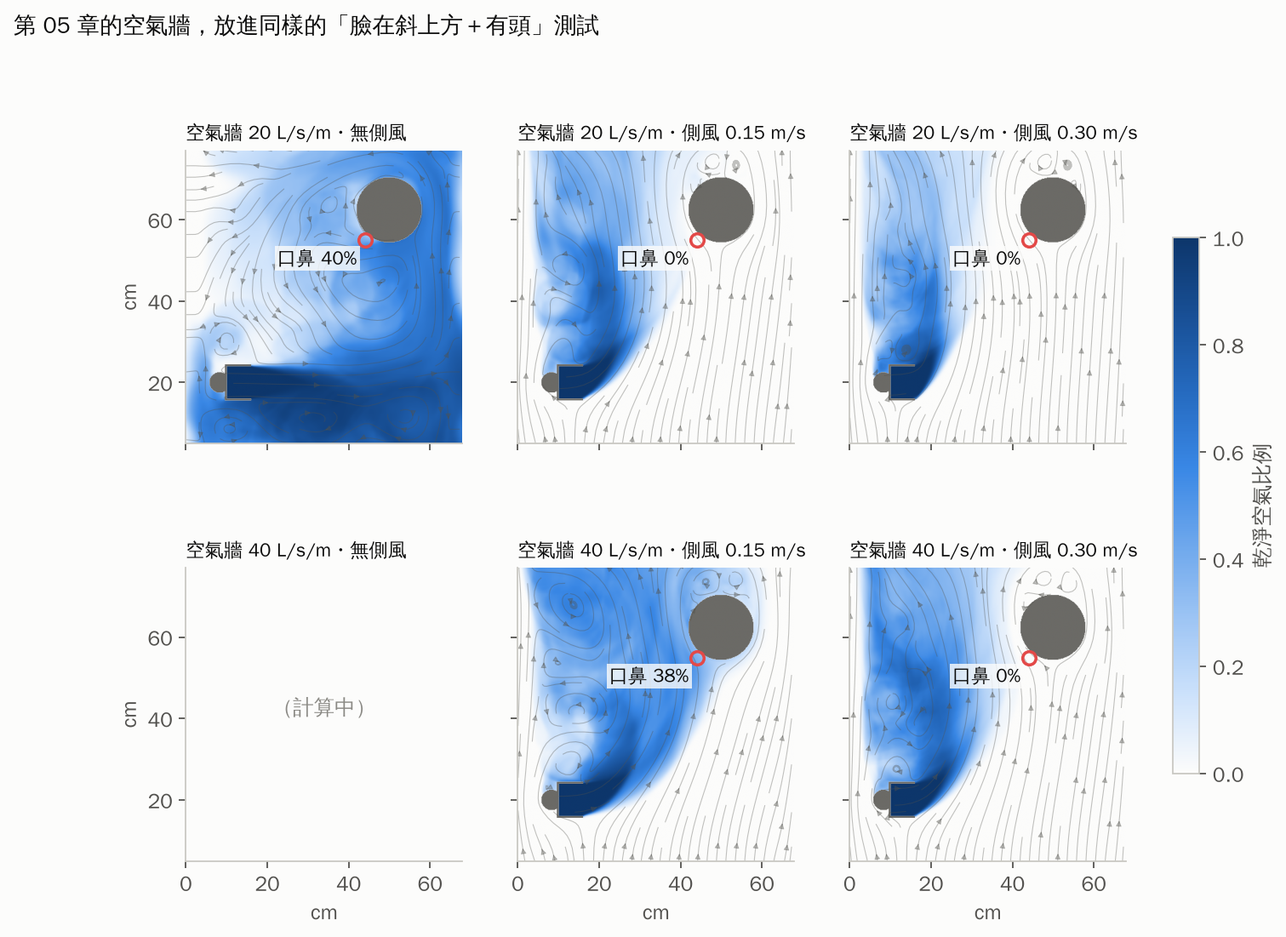
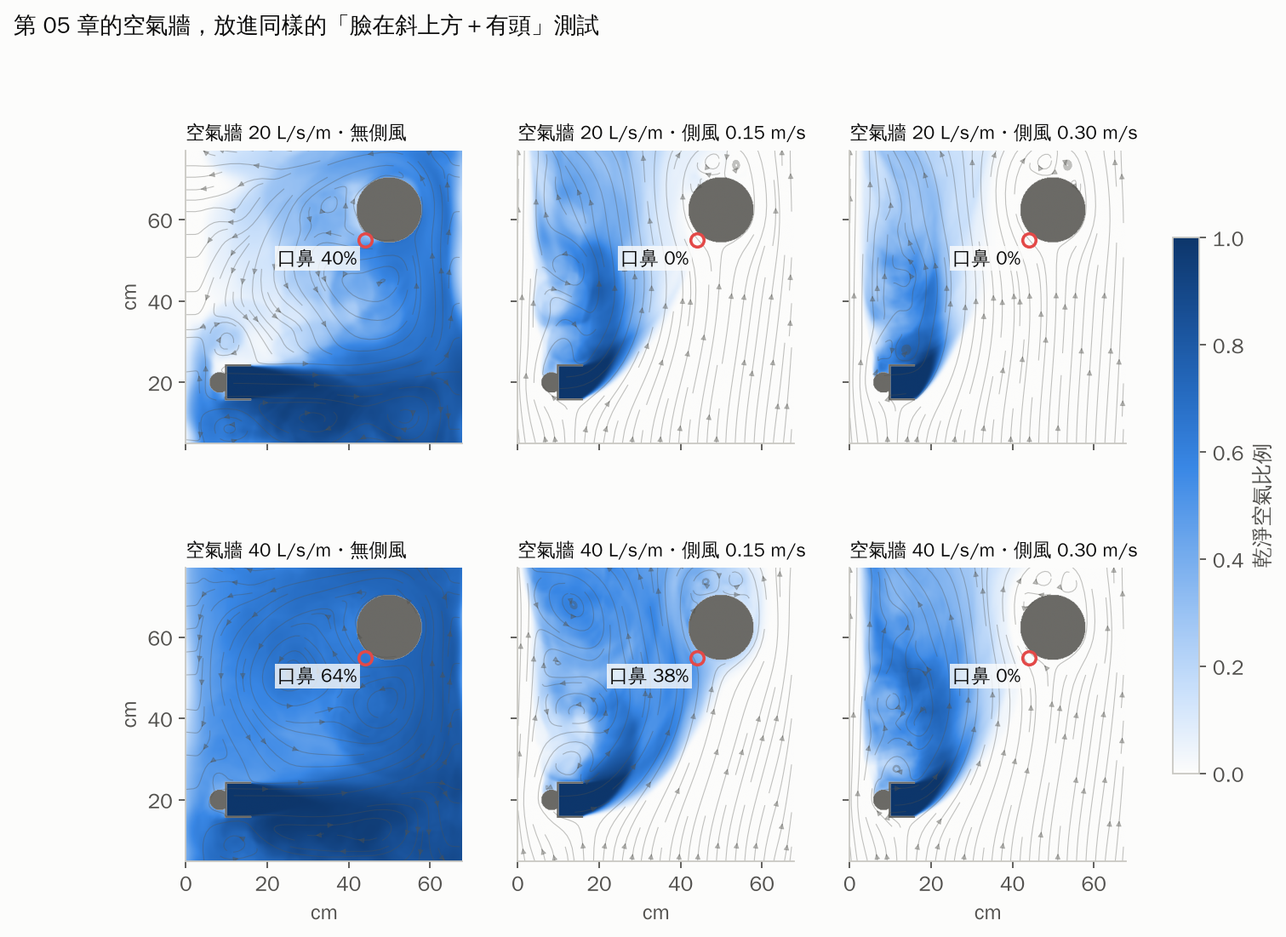
Face-above: all 18 cases done; final conclusions, animation, chapter references fixed
Claude-Session: https://claude.ai/code/session_01CLMVR9XzZXdsSKCMSLUbBG

Changed region(s): [[0.1244, 0.5867, 0.3733, 0.9264]]

diff --git a/stairwell-airflow-sim/report/index.html b/stairwell-airflow-sim/report/index.html
@@ -173,11 +173,11 @@ footer { margin-top: 48px; padding-top: 20px; border-top: 1px solid var(--line);
   <h1>扶手送風模擬報告</h1>
   <p class="question">一根貫穿整棟樓的扶手，平時能不能流通、淨化空氣？火災時能幫逃生者做到什麼？用電腦模擬一項一項檢查。</p>
   <div class="meta"><span>日期 <b>2026-10-19</b></span><span>專案 <b>長庚大學工業設計學系 林煜宸</b></span><span>模擬與撰寫 <b>Claude（AI）</b></span></div>
-  <div class="progress" role="status"><p>臉在斜上方的出風口重算：已完成 17/18 組，整體約 99%，預計台灣時間 <b>23:53</b> 前後完成</p><div class="bar" aria-hidden="true"><span style="width:99.3%"></span></div><div class="chips"><span class="chip chip-done"><b>B 康達往上</b>・無側風　完成</span><span class="chip chip-done"><b>B 康達往上</b>・側風 0.15　完成</span><span class="chip chip-done"><b>B 康達往上</b>・側風 0.30　完成</span><span class="chip chip-done"><b>A 一般</b>・側風 0.30　完成</span><span class="chip chip-done"><b>C 低混合</b>・側風 0.30　完成</span><span class="chip chip-done"><b>D 倍增</b>・側風 0.30　完成</span><span class="chip chip-done"><b>A 一般</b>・無側風　完成</span><span class="chip chip-done"><b>A 一般</b>・側風 0.15　完成</span><span class="chip chip-done"><b>D 倍增</b>・無側風　完成</span><span class="chip chip-done"><b>D 倍增</b>・側風 0.15　完成</span><span class="chip chip-done"><b>C 低混合</b>・側風 0.15　完成</span><span class="chip chip-done"><b>C 低混合</b>・無側風　完成</span><span class="chip chip-done"><b>W 空氣牆 40</b>・側風 0.15　完成</span><span class="chip chip-done"><b>W 空氣牆 20</b>・側風 0.15　完成</span><span class="chip chip-done"><b>W 空氣牆 40</b>・側風 0.30　完成</span><span class="chip chip-done"><b>W 空氣牆 20</b>・側風 0.30　完成</span><span class="chip chip-run"><b>W 空氣牆 40</b>・無側風　92%</span><span class="chip chip-done"><b>W 空氣牆 20</b>・無側風　完成</span></div><p class="muted small">進度在每次更新報告時重新計算（最後更新：台灣時間 10/19 23:50）。</p></div>
+  <div class="progress" role="status"><p>臉在斜上方的出風口重算：18 組全部完成（台灣時間 23:54 更新）</p><div class="bar" aria-hidden="true"><span style="width:100.0%"></span></div><div class="chips"><span class="chip chip-done"><b>B 康達往上</b>・無側風　完成</span><span class="chip chip-done"><b>B 康達往上</b>・側風 0.15　完成</span><span class="chip chip-done"><b>B 康達往上</b>・側風 0.30　完成</span><span class="chip chip-done"><b>A 一般</b>・側風 0.30　完成</span><span class="chip chip-done"><b>C 低混合</b>・側風 0.30　完成</span><span class="chip chip-done"><b>D 倍增</b>・側風 0.30　完成</span><span class="chip chip-done"><b>A 一般</b>・無側風　完成</span><span class="chip chip-done"><b>A 一般</b>・側風 0.15　完成</span><span class="chip chip-done"><b>D 倍增</b>・無側風　完成</span><span class="chip chip-done"><b>D 倍增</b>・側風 0.15　完成</span><span class="chip chip-done"><b>C 低混合</b>・側風 0.15　完成</span><span class="chip chip-done"><b>C 低混合</b>・無側風　完成</span><span class="chip chip-done"><b>W 空氣牆 40</b>・側風 0.15　完成</span><span class="chip chip-done"><b>W 空氣牆 20</b>・側風 0.15　完成</span><span class="chip chip-done"><b>W 空氣牆 40</b>・側風 0.30　完成</span><span class="chip chip-done"><b>W 空氣牆 20</b>・側風 0.30　完成</span><span class="chip chip-done"><b>W 空氣牆 40</b>・無側風　完成</span><span class="chip chip-done"><b>W 空氣牆 20</b>・無側風　完成</span></div><p class="muted small">進度在每次更新報告時重新計算（最後更新：台灣時間 10/19 23:54）。</p></div>
 </header>
 <nav class="toc" aria-label="章節">
   <a href="#summary">一頁看懂</a><a href="#method">怎麼測的</a><a href="#daily">平時：新風帶</a><a href="#fire">火災：守護路線</a>
-  <a href="#nozzle">四種出風口</a><a href="#zone">擴大保護範圍</a><a href="#source">空氣從哪來</a><a href="#filter">濾網擋什麼</a><a href="#exhaust">能不能排煙</a><a href="#next">下一步</a>
+  <a href="#nozzle">出風口比較</a><a href="#zone">擴大保護範圍</a><a href="#source">空氣從哪來</a><a href="#filter">濾網擋什麼</a><a href="#exhaust">能不能排煙</a><a href="#next">下一步</a>
 </nav>
 
 <section id="summary">
@@ -191,7 +191,7 @@ footer { margin-top: 48px; padding-top: 20px; border-top: 1px solid var(--line);
 </svg><figcaption>同一個概念的簡化示意。</figcaption></figure></div></details>
   <div class="takes"><div class="take"><div class="big">5 W</div><p><b>平時：</b>頂樓一台主機經扶手導風腔送風，不必另拉管、不必每層裝增壓機。有人才送風時，同時 3 層也只要約 5 W。</p></div><div class="take"><div class="big">40%</div><p><b>火災、沒有側風：</b>臉在扶手斜上方時，低混合率出風口送到 40% 的乾淨空氣。但只要有側風，四種每公尺 5 L/s 的出風口都是 0%。</p></div><div class="take"><div class="big">38%</div><p><b>有側風時：</b>只有寬 80 mm 的「空氣牆」、每公尺 40 L/s 送得到斜上方的臉（側風 0.15 m/s）。側風加到 0.30 時，乾淨空氣層只到出風口外約 16 cm，臉要更靠近才吸得到。</p></div><div class="take"><div class="big">0%</div><p>吸樓梯間的空氣過濾後再送，口鼻的 CO <b>一點都不會減少</b>。氣源一定要先確認乾淨。</p></div></div>
   <h3>每項技術的判定</h3>
-  <div class="tcards"><article class="tcard"><div class="tcard-top"><h3>扶手一體導風腔（150×60 mm）</h3><span class="pill ok">可行</span></div><p>頂樓一台主機就推得動 10 層（全開約 304 Pa），不必另拉管、不必裝增壓機。</p><span class="tsrc">第 02 章</span></article><article class="tcard"><div class="tcard-top"><h3>有人才送風＋細流＋預測預開</h3><span class="pill ok">可行</span></div><p>細流讓管內空氣約 2 分鐘換一次，有人時立刻有新鮮風；一天約 0.05 度電。</p><span class="tsrc">第 02 章</span></article><article class="tcard"><div class="tcard-top"><h3>一般圓扶手當風管</h3><span class="pill bad">太細</span></div><p>整棟只送得出每層約 0.5 L/s，必須改成一體導風腔斷面。</p><span class="tsrc">第 02 章</span></article><article class="tcard"><div class="tcard-top"><h3>低混合率同軸噴嘴</h3><span class="pill ok">無風時最好</span></div><p>臉在斜上方：無側風 40%，有側風 0%。準，但怕風。</p><span class="tsrc">第 04 章</span></article><article class="tcard"><div class="tcard-top"><h3>一般定向噴嘴</h3><span class="pill mid">效果有限</span></div><p>臉在斜上方：無側風 18%，有側風 0%。</p><span class="tsrc">第 04 章</span></article><article class="tcard"><div class="tcard-top"><h3>氣流倍增式（Dyson 式）</h3><span class="pill bad">火災不適用</span></div><p>臉在斜上方：無側風 28%，有側風 0%。借來的是周圍空氣；平時用來散開新鮮空氣可以。</p><span class="tsrc">第 04 章</span></article><article class="tcard"><div class="tcard-top"><h3>寬的「空氣牆」出風口</h3><span class="pill ok">目前最好</span></div><p>寬 80 mm、慢速送風，被上升氣流帶到扶手上方。每公尺 40 L/s、側風 0.15 m/s 時，斜上方的臉吸到 38%；每公尺 20 L/s 送不到臉（0%）。風量大，要集中給需要的樓層。</p><span class="tsrc">第 04、05 章</span></article><article class="tcard"><div class="tcard-top"><h3>康達曲面導流</h3><span class="pill mid">往上才成功</span></div><p>往下轉時氣流不轉彎；藏在底面往上轉可以貼著扶手上升，但只沿著扶手正上方走，臉在斜上方時：無側風 17%、有側風 0%。</p><span class="tsrc">第 04、05 章</span></article><article class="tcard"><div class="tcard-top"><h3>氣源</h3><span class="pill mid">要確認乾淨</span></div><p>進氣口要有 CO／煙霧感測，量到污染就關閉。濾網擋不住 CO。</p><span class="tsrc">第 05 章</span></article><article class="tcard"><div class="tcard-top"><h3>初濾＋HEPA</h3><span class="pill mid">只擋煙粒</span></div><p>平時淨化 PM2.5 很好；火災煙粒擋下 99.9% 以上，但 CO 擋下 0%。</p><span class="tsrc">第 06 章</span></article><article class="tcard"><div class="tcard-top"><h3>活性碳、觸媒</h3><span class="pill mid">要做實驗</span></div><p>活性碳幾乎擋不住 CO；觸媒有機會，但怕濕氣、有壽命。</p><span class="tsrc">第 06 章</span></article><article class="tcard"><div class="tcard-top"><h3>氣旋分離</h3><span class="pill bad">不採用</span></div><p>火災煙粒太小，只抓到約 3%（重量），還要 856 Pa 的推力。</p><span class="tsrc">第 06 章</span></article><article class="tcard"><div class="tcard-top"><h3>扶手當排煙管</h3><span class="pill bad">不採用</span></div><p>整根扶手全力排煙只有一扇門的 0.7%。</p><span class="tsrc">第 07 章</span></article></div>
+  <div class="tcards"><article class="tcard"><div class="tcard-top"><h3>扶手一體導風腔（150×60 mm）</h3><span class="pill ok">可行</span></div><p>頂樓一台主機就推得動 10 層（全開約 304 Pa），不必另拉管、不必裝增壓機。</p><span class="tsrc">第 02 章</span></article><article class="tcard"><div class="tcard-top"><h3>有人才送風＋細流＋預測預開</h3><span class="pill ok">可行</span></div><p>細流讓管內空氣約 2 分鐘換一次，有人時立刻有新鮮風；一天約 0.05 度電。</p><span class="tsrc">第 02 章</span></article><article class="tcard"><div class="tcard-top"><h3>一般圓扶手當風管</h3><span class="pill bad">太細</span></div><p>整棟只送得出每層約 0.5 L/s，必須改成一體導風腔斷面。</p><span class="tsrc">第 02 章</span></article><article class="tcard"><div class="tcard-top"><h3>低混合率同軸噴嘴</h3><span class="pill ok">無風時最好</span></div><p>臉在斜上方：無側風 40%，有側風 0%。準，但怕風。</p><span class="tsrc">第 04 章</span></article><article class="tcard"><div class="tcard-top"><h3>一般定向噴嘴</h3><span class="pill mid">效果有限</span></div><p>臉在斜上方：無側風 18%，有側風 0%。</p><span class="tsrc">第 04 章</span></article><article class="tcard"><div class="tcard-top"><h3>氣流倍增式（Dyson 式）</h3><span class="pill mid">效果有限</span></div><p>臉在斜上方：無側風 28%，有側風 0%。借來的是周圍空氣；平時用來散開新鮮空氣可以。</p><span class="tsrc">第 04 章</span></article><article class="tcard"><div class="tcard-top"><h3>寬的「空氣牆」出風口</h3><span class="pill ok">目前最好</span></div><p>寬 80 mm、慢速送風，被上升氣流帶到扶手上方。每公尺 40 L/s、側風 0.15 m/s 時，斜上方的臉吸到 38%；每公尺 20 L/s 送不到臉（0%）。風量大，要集中給需要的樓層。</p><span class="tsrc">第 04、05 章</span></article><article class="tcard"><div class="tcard-top"><h3>康達曲面導流</h3><span class="pill mid">往上才成功</span></div><p>往下轉時氣流不轉彎；藏在底面往上轉可以貼著扶手上升，但只沿著扶手正上方走，臉在斜上方時：無側風 17%、有側風 0%。</p><span class="tsrc">第 04、05 章</span></article><article class="tcard"><div class="tcard-top"><h3>氣源</h3><span class="pill mid">要確認乾淨</span></div><p>進氣口要有 CO／煙霧感測，量到污染就關閉。濾網擋不住 CO。</p><span class="tsrc">第 06 章</span></article><article class="tcard"><div class="tcard-top"><h3>初濾＋HEPA</h3><span class="pill mid">只擋煙粒</span></div><p>平時淨化 PM2.5 很好；火災煙粒擋下 99.9% 以上，但 CO 擋下 0%。</p><span class="tsrc">第 07 章</span></article><article class="tcard"><div class="tcard-top"><h3>活性碳、觸媒</h3><span class="pill mid">要做實驗</span></div><p>活性碳幾乎擋不住 CO；觸媒有機會，但怕濕氣、有壽命。</p><span class="tsrc">第 07 章</span></article><article class="tcard"><div class="tcard-top"><h3>氣旋分離</h3><span class="pill bad">不採用</span></div><p>火災煙粒太小，只抓到約 3%（重量），還要 856 Pa 的推力。</p><span class="tsrc">第 07 章</span></article><article class="tcard"><div class="tcard-top"><h3>扶手當排煙管</h3><span class="pill bad">不採用</span></div><p>整根扶手全力排煙只有一扇門的 0.7%。</p><span class="tsrc">第 08 章</span></article></div>
   <div class="gloss">
     <h3>名詞小抄</h3>
     <dl>
@@ -450,17 +450,24 @@ footer { margin-top: 48px; padding-top: 20px; border-top: 1px solid var(--line);
 </section>
 
 <section id="nozzle">
-  <h2><span class="no">04</span>四種出風口比一比（臉在扶手斜上方）</h2>
-  <p class="oneliner">臉在扶手斜上方時（已完成 17/18 組），目前口鼻乾淨空氣最高的是 C 低混合同軸（無側風）：40%。</p>
+  <h2><span class="no">04</span>出風口比一比（臉在扶手斜上方）</h2>
+  <p class="oneliner">臉在扶手斜上方時，沒有側風最好的是低混合出風口（40%）；一有側風，每公尺 5 L/s 的出風口全部是 0%，只有每公尺 40 L/s 的空氣牆送得到臉（側風 0.15：38%）。</p>
   <figure class="fig render"><img class="img-any" src="assets/render_nozzles.webp" alt="四種扶手側面出風口形式比較" loading="lazy"><figcaption>四種出風口的造型構想（設計渲染圖）。圖中文字是設計構想，實際結果以下方模擬為準。</figcaption></figure>
   <figure class="fig"><img class="img-light" src="assets/s2f_saf_bars.png" alt="臉在斜上方時四種出風口的乾淨空氣比例" loading="lazy"><img class="img-dark" src="assets/s2f_saf_bars_dark.png" alt="臉在斜上方時四種出風口的乾淨空氣比例" loading="lazy"><figcaption>每條橫條代表 100% 的吸入空氣，彩色部分是來自出風口的乾淨空氣。黑色短線是最差 10% 的時刻。</figcaption></figure>
   <div class="points prose">
 <p><b>為什麼重算：</b>人扶著內側扶手下樓時，臉在扶手的<b>斜上方</b>，不是正前方。這組把口鼻放在出風口往樓梯側 28 cm、往上 35 cm（距離約 45 cm、仰角約 51°）；A、C、D 出風口改成朝向口鼻，B 改用藏在底面、往上轉的康達出風口。每公尺送風量都是 5 L/s，網格 1.5 mm。<span class="tag tag-sim">模擬結果</span></p>
-<div class="table-wrap"><table><thead><tr><th scope="col">出風口（數字＝口鼻吸到的乾淨空氣比例）</th><th scope="col">無側風</th><th scope="col">側風 0.15</th><th scope="col">側風 0.30</th></tr></thead><tbody><tr><th scope="row">A 一般定向</th><td class="num">18%</td><td class="num">0%</td><td class="num">0%</td></tr><tr><th scope="row">B 康達往上</th><td class="num">17%</td><td class="num">0%</td><td class="num">0%</td></tr><tr><th scope="row">C 低混合同軸</th><td class="num">40%</td><td class="num">0%</td><td class="num">0%</td></tr><tr><th scope="row">D 氣流倍增</th><td class="num">28%</td><td class="num">0%</td><td class="num">0%</td></tr><tr><th scope="row">W 空氣牆 20 L/s/m</th><td class="num">40%＊</td><td class="num">0%</td><td class="num">0%</td></tr><tr><th scope="row">W 空氣牆 40 L/s/m</th><td class="num">計算中</td><td class="num">38%</td><td class="num">0%</td></tr></tbody></table></div><p class="muted">＊未穩定：沒有側風時，空氣牆送出的大量空氣在模型裡出不去，把整個 68 × 82 cm 的範圍慢慢填滿（整個範圍平均已達 45%），口鼻的數字一路往上爬，反映的是「範圍被填滿」而不是「送得到臉」，所以不拿來比較。真實樓梯間空間大得多，也幾乎都有上升氣流。</p>
-<p><b>目前看到的現象（8 組有側風的結果）：</b>有側風時，出風口吹出的乾淨空氣一離開扶手，就被由下往上的氣流帶著<b>貼著扶手正上方往上走</b>，到不了往樓梯側 28 cm 外的臉，口鼻都是 0%。B 康達往上確實有沿圓角轉向上（下面的圖看得到深藍色貼著導風腔轉彎），但轉上去之後一樣直直往上，沒有往臉的方向偏。<span class="tag tag-sim">模擬結果</span></p>
+<div class="table-wrap"><table><thead><tr><th scope="col">出風口（數字＝口鼻吸到的乾淨空氣比例）</th><th scope="col">無側風</th><th scope="col">側風 0.15</th><th scope="col">側風 0.30</th></tr></thead><tbody><tr><th scope="row">A 一般定向</th><td class="num">18%</td><td class="num">0%</td><td class="num">0%</td></tr><tr><th scope="row">B 康達往上</th><td class="num">17%</td><td class="num">0%</td><td class="num">0%</td></tr><tr><th scope="row">C 低混合同軸</th><td class="num">40%</td><td class="num">0%</td><td class="num">0%</td></tr><tr><th scope="row">D 氣流倍增</th><td class="num">28%</td><td class="num">0%</td><td class="num">0%</td></tr><tr><th scope="row">W 空氣牆 20 L/s/m</th><td class="num">40%＊</td><td class="num">0%</td><td class="num">0%</td></tr><tr><th scope="row">W 空氣牆 40 L/s/m</th><td class="num">64%＊</td><td class="num">38%</td><td class="num">0%</td></tr></tbody></table></div><p class="muted">＊未穩定：沒有側風時，空氣牆送出的大量空氣在模型裡出不去，把整個 68 × 82 cm 的範圍慢慢填滿（整個範圍平均已達 68%），口鼻的數字一路往上爬，反映的是「範圍被填滿」而不是「送得到臉」，所以不拿來比較。真實樓梯間空間大得多，也幾乎都有上升氣流。</p>
+<ul>
+<li><b>沒有側風：</b>低混合同軸 C 40%、氣流倍增 D 28%、一般定向 A 18%、康達往上 B 17%。排名和早期設定一樣是低混合最準，但數字從早期的 91% 掉到 40%：臉從正前方 35 cm 移到斜上方約 45 cm，距離變遠、還要往上送，乾淨空氣一路混進更多周圍空氣。C 的氣流有直接打到臉；A、B 的數字有一大部分是渦旋把送出的空氣困在附近、慢慢累積的背景，真實樓梯間的煙會一直補充，實際會更低。<span class="tag tag-sim">模擬結果</span><span class="tag tag-inf">工程推論</span></li>
+<li><b>有側風：</b>A、B、C、D 在 0.15 和 0.30 m/s 的側風下<b>全部是 0%</b>。乾淨空氣並沒有消失，而是一離開出風口就被由下往上的氣流帶著<b>貼著扶手正上方往上走</b>（看下面的動畫），到不了往樓梯側 28 cm 外的臉。<span class="tag tag-sim">模擬結果</span></li>
+<li><b>康達往上：</b>有側風時確實沿著圓角轉向上、貼著導風腔往上走（往下轉時做不到），但轉上去之後一樣沿著扶手正上方往上，沒有往臉的方向偏。沒有側風時，以每公尺 5 L/s 的風速<b>不會自己轉上去</b>，而是沿著導風腔底面水平往外吹；口鼻的 17% 主要是慢慢累積的背景。康達轉彎需要上升氣流幫忙，或更細的縫、更快的風。<span class="tag tag-sim">模擬結果</span></li>
+<li><b>空氣牆每公尺 40 L/s：</b>側風 0.15 m/s 時口鼻 38%，是有側風時唯一送得到臉的做法。但乾淨空氣是一陣一陣送到的：前半段 45%、後半段 31%，最差的 10% 時刻是 0%。側風加到 0.30 時，乾淨空氣層在臉的高度只延伸到出風口外 16 cm，臉在 28 cm，所以是 0%。<span class="tag tag-sim">模擬結果</span></li>
+<li><b>空氣牆每公尺 20 L/s：</b>側風下都送不到臉（0%／0%）；乾淨空氣層只延伸 14 cm。<span class="tag tag-sim">模擬結果</span></li>
+<li><b>空氣牆沒有側風時：</b>數字不拿來比較（表中＊）。送出的風量是 A–D 的 4–8 倍，2D 模型裡又沒有氣流把它帶走，整個範圍會被慢慢填滿。<span class="tag tag-sim">模擬結果</span></li>
+<li><b>對設計的意思：</b>在臉的位置，乾淨空氣層「延伸多遠」比「出風口朝哪裡」更重要。要讓斜上方的臉吸得到，需要寬的空氣牆、每公尺約 40 L/s，<b>而且臉要在出風口外約 30 cm 內</b>。可以把出風口往樓梯側外推（平台轉角的外凸出風罩），或讓扶手的握持位置更靠近出風口。<span class="tag tag-inf">工程推論</span></li>
+</ul>
 <p><b>加算空氣牆：</b>先算完的幾組顯示，每公尺 5 L/s 的出風口在有側風時送不到斜上方的臉。所以把第 05 章表現最好的空氣牆（寬 80 mm、每公尺 20 或 40 L/s、水平往樓梯側吹）也放進同一個「臉在斜上方＋有頭」的測試，共 6 組，表格最後兩列。<span class="tag tag-sim">模擬結果</span></p>
-<p class="muted"><b>無側風要算久一點：</b>沒有側風時氣流很慢，乾淨空氣要好幾秒才飄到臉旁。先算的 10 秒版本裡，B、C、D 的口鼻數值還在一路往上爬（B 從 0% 爬到 12%、C 從 15% 爬到 46%、D 從 0% 爬到 36%），代表還沒穩定，所以無側風的 B、C、D 和空氣牆延長到 24 秒重算，取後 16 秒平均。A 的 10 秒版本前後半段差不多（19%／18%），已經穩定。</p>
-<p class="muted">已完成 17/18 組，其餘計算中；每完成一批就會更新。</p></div>
+<p class="muted"><b>無側風要算久一點：</b>沒有側風時氣流很慢，乾淨空氣要好幾秒才飄到臉旁。先算的 10 秒版本裡，B、C、D 的口鼻數值還在一路往上爬（B 從 0% 爬到 12%、C 從 15% 爬到 46%、D 從 0% 爬到 36%），代表還沒穩定，所以無側風的 B、C、D 和空氣牆延長到 24 秒重算，取後 16 秒平均。A 的 10 秒版本前後半段差不多（19%／18%），已經穩定。</p></div>
   <figure class="fig"><img class="img-light" src="assets/s2f_reach.png" alt="在臉的高度，乾淨空氣層往樓梯側延伸多遠" loading="lazy"><img class="img-dark" src="assets/s2f_reach_dark.png" alt="在臉的高度，乾淨空氣層往樓梯側延伸多遠" loading="lazy"><figcaption>怎麼量：取口鼻上下各 3 cm 的水平帶，算出每個位置的平均乾淨空氣比例，看 ≥ 25%（淺色）和 ≥ 50%（深色）的範圍從出風口出口往樓梯側最遠到幾公分。紅虛線是這次假設的臉（28 cm）；長條超過紅線，臉才吸得到。</figcaption></figure>
   <figure class="fig"><img class="img-light" src="assets/s2f_vc00_fields.png" alt="臉在斜上方、無側風" loading="lazy"><img class="img-dark" src="assets/s2f_vc00_fields_dark.png" alt="臉在斜上方、無側風" loading="lazy"><figcaption>無側風：紅圈是口鼻位置，顏色越深代表出風口的空氣越多。</figcaption></figure>
   <figure class="fig"><img class="img-light" src="assets/s2f_vc15_fields.png" alt="臉在斜上方、側風 0.15 m/s" loading="lazy"><img class="img-dark" src="assets/s2f_vc15_fields_dark.png" alt="臉在斜上方、側風 0.15 m/s" loading="lazy"><figcaption>側風 0.15 m/s（由下往上）。</figcaption></figure>
@@ -513,7 +520,7 @@ footer { margin-top: 48px; padding-top: 20px; border-top: 1px solid var(--line);
 
 <section id="zone">
   <h2><span class="no">05</span>擴大保護範圍：讓扶手上方撐出一層乾淨空氣</h2>
-  <p class="oneliner">寬 80 mm 的「空氣牆」慢慢送風，樓梯間的上升氣流會把它往上帶，在扶手上方撐出一層乾淨空氣：側風 0.15 m/s、每公尺 20 L/s 時，扶手上方 42% 的範圍乾淨空氣超過一半。</p>
+  <p class="oneliner">寬 80 mm 的「空氣牆」慢慢送風，樓梯間的上升氣流會把它往上帶，在扶手上方撐出一層乾淨空氣：側風 0.15 m/s、每公尺 20 L/s 時，扶手上方 42% 的範圍乾淨空氣超過一半。但這層空氣貼著扶手，要送到斜上方 28 cm 外的臉，每公尺要約 40 L/s（第 04 章）。</p>
   <figure class="fig"><img class="img-light" src="assets/s6_frac.png" alt="扶手上方乾淨範圍與送風量" loading="lazy"><img class="img-dark" src="assets/s6_frac_dark.png" alt="扶手上方乾淨範圍與送風量" loading="lazy"><figcaption>扶手上方（站姿的臉的位置）乾淨空氣 ≥ 50% 的面積比例，隨送風量的變化。</figcaption></figure>
   <figure class="fig"><img class="img-light" src="assets/s6_fields_vc15.png" alt="側風 0.15 m/s 的乾淨空氣分布" loading="lazy"><img class="img-dark" src="assets/s6_fields_vc15_dark.png" alt="側風 0.15 m/s 的乾淨空氣分布" loading="lazy"><figcaption>側風 0.15 m/s：紅色虛線是扶手前方 50 cm 的範圍，細線圍起來的是乾淨空氣超過一半的地方。</figcaption></figure>
   <div class="points prose">
@@ -713,11 +720,12 @@ footer { margin-top: 48px; padding-top: 20px; border-top: 1px solid var(--line);
   <text x="576" y="168" class="g-s">側風</text>
 </svg><figcaption>建議的桌上型實驗：用 CO₂ 當作「煙」，量頭模型口鼻處的濃度，用和電腦相同的方法算乾淨空氣比例。</figcaption></figure>
   <div class="points prose">
-<p><b>這次已經完成的：</b>「守住扶手旁 50 cm」的模擬（第 05 章）、扶手斷面尺寸圖（第 02 章）、臉在斜上方的出風口比較（第 04 章）。</p>
+<p><b>這次已經完成的：</b>「守住扶手旁 50 cm」的模擬（第 05 章）、扶手斷面尺寸圖（第 02 章）、臉在斜上方的出風口比較，含空氣牆共 18 組（第 04 章）。</p>
 <p><b>建議的下一步：</b></p>
 <ol>
 <li><b>空氣牆出風口打樣：</b>依第 05 章，做寬約 80 mm、內有整流層的出風口，並調整導風腔斷面（例如 120×90 mm）或做平台轉角的外凸出風罩。</li>
 <li><b>可切換吹法的出風口：</b>平時小風量、寬角度借風；火災時切成慢速平直的空氣牆。</li>
+<li><b>臉的距離與出風口外推：</b>第 04 章顯示乾淨空氣層只延伸約 16–32 cm。下一輪模擬把臉放在 15、20、28 cm 等不同距離，並試做平台轉角的外凸出風罩，找出空氣牆每公尺 40 L/s 守得住的最遠距離。</li>
 <li><b>桌上型實驗（上圖）：</b>3D 列印空氣牆、康達往上、低混合三種出風口，箱內放 CO₂、出風口送乾淨空氣、量頭模型口鼻的 CO₂，用和電腦相同的方法算乾淨空氣比例；用小風扇由下往上加側風。</li>
 <li><b>3D、含溫度的電腦模擬：</b>確認熱煙層、冷空氣下沉、人走動、出風口長度有限（三維）時，空氣牆還撐不撐得住。建議用有顯示卡的電腦執行。</li>
 <li><b>網格收斂檢查：</b>把格子切細一倍重算關鍵算例，確認排名不變。</li>

diff --git a/stairwell-airflow-sim/report/findings.py b/stairwell-airflow-sim/report/findings.py
@@ -81,7 +81,7 @@ def build_findings(ctx):
              why="整棟只送得出每層約 0.5 L/s，必須改成一體導風腔斷面。", where="第 02 章"),
         card("coax", "低混合率同軸噴嘴", "無風時最好" if best0 in (None, "C") else "無風時可用", "ok", "準，但怕風。"),
         card("plain", "一般定向噴嘴", "效果有限", "mid"),
-        card("amp", "氣流倍增式（Dyson 式）", "火災不適用", "bad", "借來的是周圍空氣；平時用來散開新鮮空氣可以。"),
+        card("amp", "氣流倍增式（Dyson 式）", "效果有限", "mid", "借來的是周圍空氣；平時用來散開新鮮空氣可以。"),
         dict(name="寬的「空氣牆」出風口", verdict="目前最好", cls="ok",
              why=f"寬 80 mm、慢速送風，被上升氣流帶到扶手上方。每公尺 40 L/s、側風 0.15 m/s 時，斜上方的臉吸到 {pct(fv('W40_vc15'))}；"
                  f"每公尺 20 L/s 送不到臉（{pct(fv('W20_vc15'))}）。風量大，要集中給需要的樓層。",
@@ -91,13 +91,13 @@ def build_findings(ctx):
                  f"臉在斜上方時：無側風 {pct(fv('B_vc00'))}、有側風 {pct(fv('B_vc15'))}。",
              where="第 04、05 章"),
         dict(name="氣源", verdict="要確認乾淨", cls="mid",
-             why="進氣口要有 CO／煙霧感測，量到污染就關閉。濾網擋不住 CO。", where="第 05 章"),
-        dict(name="初濾＋HEPA", verdict="只擋煙粒", cls="mid", why="平時淨化 PM2.5 很好；火災煙粒擋下 99.9% 以上，但 CO 擋下 0%。", where="第 06 章"),
-        dict(name="活性碳、觸媒", verdict="要做實驗", cls="mid", why="活性碳幾乎擋不住 CO；觸媒有機會，但怕濕氣、有壽命。", where="第 06 章"),
+             why="進氣口要有 CO／煙霧感測，量到污染就關閉。濾網擋不住 CO。", where="第 06 章"),
+        dict(name="初濾＋HEPA", verdict="只擋煙粒", cls="mid", why="平時淨化 PM2.5 很好；火災煙粒擋下 99.9% 以上，但 CO 擋下 0%。", where="第 07 章"),
+        dict(name="活性碳、觸媒", verdict="要做實驗", cls="mid", why="活性碳幾乎擋不住 CO；觸媒有機會，但怕濕氣、有壽命。", where="第 07 章"),
         dict(name="氣旋分離", verdict="不採用", cls="bad",
-             why=f"火災煙粒太小，只抓到約 {pct(rem[('有焰','氣旋')]['removal_mass'])}（重量），還要 {cyc['dP_Pa']:.0f} Pa 的推力。", where="第 06 章"),
+             why=f"火災煙粒太小，只抓到約 {pct(rem[('有焰','氣旋')]['removal_mass'])}（重量），還要 {cyc['dP_Pa']:.0f} Pa 的推力。", where="第 07 章"),
         dict(name="扶手當排煙管", verdict="不採用", cls="bad",
-             why=f"整根扶手全力排煙只有一扇門的 {pct(hot['ratio_to_door'],1)}。", where="第 07 章"),
+             why=f"整根扶手全力排煙只有一扇門的 {pct(hot['ratio_to_door'],1)}。", where="第 08 章"),
     ]
 
     # ---------- 第 02 章 平時 ----------
@@ -253,11 +253,12 @@ def build_findings(ctx):
 </ul>
 <p>所以這次的結果適合用來<b>比較方案、排除不可行的做法、訂出下一步的設計目標</b>，不適合當成真實火場的預測數字。</p>"""
     next_points = """
-<p><b>這次已經完成的：</b>「守住扶手旁 50 cm」的模擬（第 05 章）、扶手斷面尺寸圖（第 02 章）、臉在斜上方的出風口比較（第 04 章）。</p>
+<p><b>這次已經完成的：</b>「守住扶手旁 50 cm」的模擬（第 05 章）、扶手斷面尺寸圖（第 02 章）、臉在斜上方的出風口比較，含空氣牆共 18 組（第 04 章）。</p>
 <p><b>建議的下一步：</b></p>
 <ol>
 <li><b>空氣牆出風口打樣：</b>依第 05 章，做寬約 80 mm、內有整流層的出風口，並調整導風腔斷面（例如 120×90 mm）或做平台轉角的外凸出風罩。</li>
 <li><b>可切換吹法的出風口：</b>平時小風量、寬角度借風；火災時切成慢速平直的空氣牆。</li>
+<li><b>臉的距離與出風口外推：</b>第 04 章顯示乾淨空氣層只延伸約 16–32 cm。下一輪模擬把臉放在 15、20、28 cm 等不同距離，並試做平台轉角的外凸出風罩，找出空氣牆每公尺 40 L/s 守得住的最遠距離。</li>
 <li><b>桌上型實驗（上圖）：</b>3D 列印空氣牆、康達往上、低混合三種出風口，箱內放 CO₂、出風口送乾淨空氣、量頭模型口鼻的 CO₂，用和電腦相同的方法算乾淨空氣比例；用小風扇由下往上加側風。</li>
 <li><b>3D、含溫度的電腦模擬：</b>確認熱煙層、冷空氣下沉、人走動、出風口長度有限（三維）時，空氣牆還撐不撐得住。建議用有顯示卡的電腦執行。</li>
 <li><b>網格收斂檢查：</b>把格子切細一倍重算關鍵算例，確認排名不變。</li>
@@ -341,7 +342,8 @@ def build_findings(ctx):
         return z[n][k] if n in z else None
 
     s6_one = (f"寬 80 mm 的「空氣牆」慢慢送風，樓梯間的上升氣流會把它往上帶，在扶手上方撐出一層乾淨空氣："
-              f"側風 0.15 m/s、每公尺 20 L/s 時，扶手上方 {pct(zu('W_q20_vc15'))} 的範圍乾淨空氣超過一半。")
+              f"側風 0.15 m/s、每公尺 20 L/s 時，扶手上方 {pct(zu('W_q20_vc15'))} 的範圍乾淨空氣超過一半。"
+              f"但這層空氣貼著扶手，要送到斜上方 28 cm 外的臉，每公尺要約 40 L/s（第 04 章）。")
     s6_points = f"""
 <p><b>為什麼要做這組：</b>第 04 章只量臉前一個點。但臉的位置因人、因姿勢而異，所以這裡改量扶手出風口前方<b>半徑 50 cm 的整個半圓</b>，並分開看「扶手上方」（站著時臉的位置）和「扶手水平前方」（彎腰時）。網格 2.5 mm、不放人頭、側風由下往上。{tag("sim")}</p>
 <div class="table-wrap"><table><thead><tr><th scope="col">出風口（側風 0.15 m/s）</th><th scope="col">每公尺 10 L/s</th><th scope="col">20 L/s</th><th scope="col">40 L/s</th></tr></thead><tbody>

diff --git a/stairwell-airflow-sim/report/make_report.py b/stairwell-airflow-sim/report/make_report.py
@@ -375,7 +375,7 @@ PAGE = f"""<title>扶手送風模擬報告</title>
 </header>
 <nav class="toc" aria-label="章節">
   <a href="#summary">一頁看懂</a><a href="#method">怎麼測的</a><a href="#daily">平時：新風帶</a><a href="#fire">火災：守護路線</a>
-  <a href="#nozzle">四種出風口</a><a href="#zone">擴大保護範圍</a><a href="#source">空氣從哪來</a><a href="#filter">濾網擋什麼</a><a href="#exhaust">能不能排煙</a><a href="#next">下一步</a>
+  <a href="#nozzle">出風口比較</a><a href="#zone">擴大保護範圍</a><a href="#source">空氣從哪來</a><a href="#filter">濾網擋什麼</a><a href="#exhaust">能不能排煙</a><a href="#next">下一步</a>
 </nav>
 
 <section id="summary">
@@ -453,7 +453,7 @@ PAGE = f"""<title>扶手送風模擬報告</title>
 </section>
 
 <section id="nozzle">
-  <h2><span class="no">04</span>四種出風口比一比（臉在扶手斜上方）</h2>
+  <h2><span class="no">04</span>出風口比一比（臉在扶手斜上方）</h2>
   {oneliner(FIND["face_one"])}
   {render("render_nozzles.webp", "四種扶手側面出風口形式比較", "四種出風口的造型構想（設計渲染圖）。圖中文字是設計構想，實際結果以下方模擬為準。")}
   {fig("s2f_saf_bars.png", "臉在斜上方時四種出風口的乾淨空氣比例", "每條橫條代表 100% 的吸入空氣，彩色部分是來自出風口的乾淨空氣。黑色短線是最差 10% 的時刻。")}
